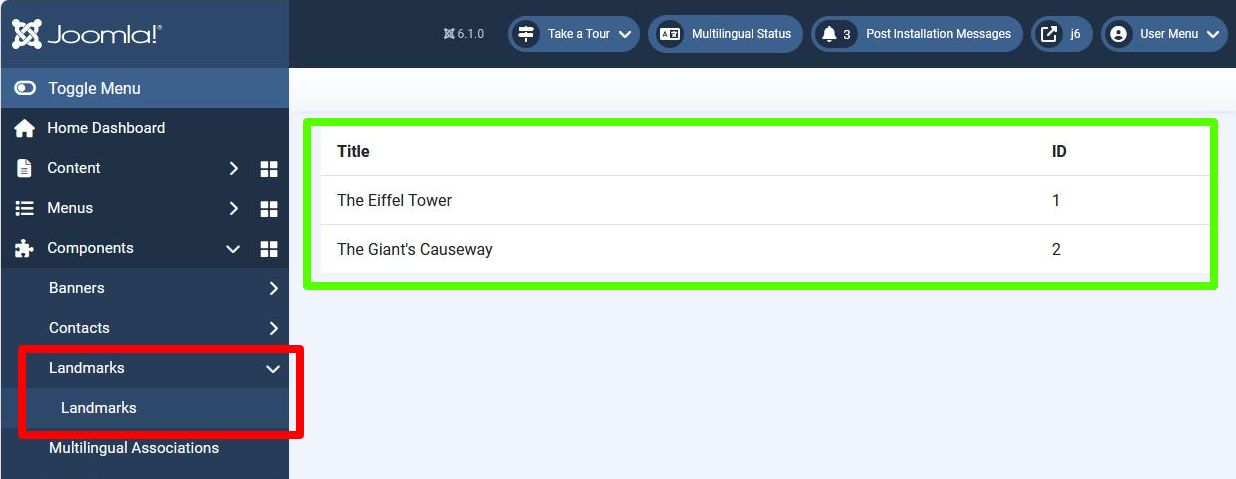
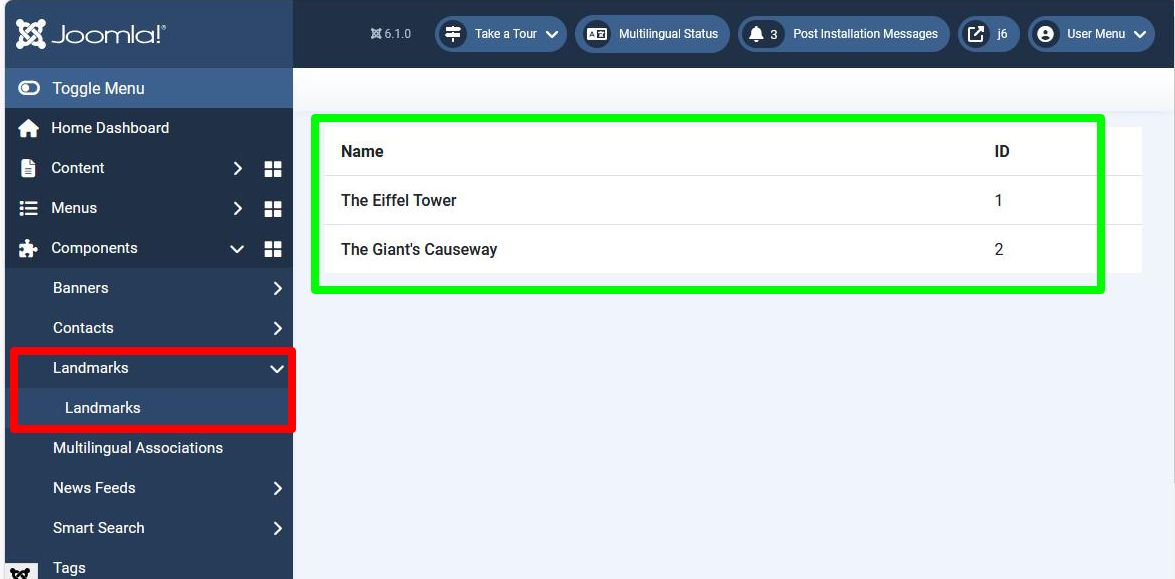
landmark title changed to landmark name in admin list view

Changed region(s): [[0.0, 0.0, 1.0, 1.0], [0.8272, 0.4092, 0.8579, 0.4384]]

diff --git a/docs/building-extensions/components/component-development-tutorial/step07-admin-edit.md b/docs/building-extensions/components/component-development-tutorial/step07-admin-edit.md
@@ -30,10 +30,10 @@ System Messages
 
 ## Functionality
 
-In the front-end instead of displaying just the landmark title, we'll now display the landmark title and description.
+In the front-end instead of displaying just the landmark name (aka landmark title), we'll now display the landmark name and description.
 
-In the back-end we'll change the list of landmarks so that the title is a link
-which will take the administrator to a form where the title and description can be viewed and changed.
+In the back-end we'll change the list of landmarks so that the name is a link
+which will take the administrator to a form where the name and description can be viewed and changed.
 
 ## Approach
 
@@ -49,7 +49,7 @@ to handle a structure (with the title and description) rather than passing the t
 
 ### Back-end
 
-In the landmarks tmpl file we change the landmark title to be a link which will take us to a form where the record can be edited.
+In the landmarks tmpl file we change the landmark name to be a link which will take us to a form where the record can be edited.
 
 We need to code the edit form, allowing the administrator to change the fields and submit the changes.
 
@@ -157,7 +157,7 @@ and we split the description of the source code changes to match the actions in 
 
 ### Action 1
 
-In the tmpl file displaying a list of landmarks, we change the Landmark Title field to be a link to a form where that record can be edited.
+In the tmpl file displaying a list of landmarks, we change the Landmark Name field to be a link to a form where that record can be edited.
 
 In the sequence diagram, when you click on an article 
 it generates an HTTP GET with task=article.edit and id=(id of the article to edit).
@@ -485,10 +485,10 @@ COM_EXAMPLE_LANDMARK_FIELD_SELECT_TITLE="Landmark"
 COM_EXAMPLE_LANDMARK_FIELD_SELECT_DESC="Select a landmark"
 ; Admin landmarks view
 COM_EXAMPLE_LANDMARKS_CAPTION="Table of Landmarks"
+COM_EXAMPLE_LANDMARK_TITLE_LABEL="Name"
 // highlight-start
 ; Admin landmark edit form
 COM_EXAMPLE_LANDMARK_EDIT="Landmarks: Edit"
-COM_EXAMPLE_LANDMARK_TITLE_LABEL="Name"
 COM_EXAMPLE_LANDMARK_TITLE_DESC="Name of the landmark"
 COM_EXAMPLE_LANDMARK_DESCRIPTION_LABEL="Description"
 COM_EXAMPLE_LANDMARK_DESCRIPTION_DESC="A summary description of the landmark"

diff --git a/versioned_docs/version-4.4/building-extensions/components/component-development-tutorial/step07-admin-edit.md b/versioned_docs/version-4.4/building-extensions/components/component-development-tutorial/step07-admin-edit.md
@@ -30,10 +30,10 @@ System Messages
 
 ## Functionality
 
-In the front-end instead of displaying just the landmark title, we'll now display the landmark title and description.
+In the front-end instead of displaying just the landmark name (aka landmark title), we'll now display the landmark name and description.
 
-In the back-end we'll change the list of landmarks so that the title is a link
-which will take the administrator to a form where the title and description can be viewed and changed.
+In the back-end we'll change the list of landmarks so that the name is a link
+which will take the administrator to a form where the name and description can be viewed and changed.
 
 ## Approach
 
@@ -49,7 +49,7 @@ to handle a structure (with the title and description) rather than passing the t
 
 ### Back-end
 
-In the landmarks tmpl file we change the landmark title to be a link which will take us to a form where the record can be edited.
+In the landmarks tmpl file we change the landmark name to be a link which will take us to a form where the record can be edited.
 
 We need to code the edit form, allowing the administrator to change the fields and submit the changes.
 
@@ -157,7 +157,7 @@ and we split the description of the source code changes to match the actions in 
 
 ### Action 1
 
-In the tmpl file displaying a list of landmarks, we change the Landmark Title field to be a link to a form where that record can be edited.
+In the tmpl file displaying a list of landmarks, we change the Landmark Name field to be a link to a form where that record can be edited.
 
 In the sequence diagram, when you click on an article 
 it generates an HTTP GET with task=article.edit and id=(id of the article to edit).
@@ -485,10 +485,10 @@ COM_EXAMPLE_LANDMARK_FIELD_SELECT_TITLE="Landmark"
 COM_EXAMPLE_LANDMARK_FIELD_SELECT_DESC="Select a landmark"
 ; Admin landmarks view
 COM_EXAMPLE_LANDMARKS_CAPTION="Table of Landmarks"
+COM_EXAMPLE_LANDMARK_TITLE_LABEL="Name"
 // highlight-start
 ; Admin landmark edit form
 COM_EXAMPLE_LANDMARK_EDIT="Landmarks: Edit"
-COM_EXAMPLE_LANDMARK_TITLE_LABEL="Name"
 COM_EXAMPLE_LANDMARK_TITLE_DESC="Name of the landmark"
 COM_EXAMPLE_LANDMARK_DESCRIPTION_LABEL="Description"
 COM_EXAMPLE_LANDMARK_DESCRIPTION_DESC="A summary description of the landmark"

diff --git a/versioned_docs/version-5.4/building-extensions/components/component-development-tutorial/step07-admin-edit.md b/versioned_docs/version-5.4/building-extensions/components/component-development-tutorial/step07-admin-edit.md
@@ -30,10 +30,10 @@ System Messages
 
 ## Functionality
 
-In the front-end instead of displaying just the landmark title, we'll now display the landmark title and description.
+In the front-end instead of displaying just the landmark name (aka landmark title), we'll now display the landmark name and description.
 
-In the back-end we'll change the list of landmarks so that the title is a link
-which will take the administrator to a form where the title and description can be viewed and changed.
+In the back-end we'll change the list of landmarks so that the name is a link
+which will take the administrator to a form where the name and description can be viewed and changed.
 
 ## Approach
 
@@ -49,7 +49,7 @@ to handle a structure (with the title and description) rather than passing the t
 
 ### Back-end
 
-In the landmarks tmpl file we change the landmark title to be a link which will take us to a form where the record can be edited.
+In the landmarks tmpl file we change the landmark name to be a link which will take us to a form where the record can be edited.
 
 We need to code the edit form, allowing the administrator to change the fields and submit the changes.
 
@@ -157,7 +157,7 @@ and we split the description of the source code changes to match the actions in 
 
 ### Action 1
 
-In the tmpl file displaying a list of landmarks, we change the Landmark Title field to be a link to a form where that record can be edited.
+In the tmpl file displaying a list of landmarks, we change the Landmark Name field to be a link to a form where that record can be edited.
 
 In the sequence diagram, when you click on an article 
 it generates an HTTP GET with task=article.edit and id=(id of the article to edit).
@@ -485,10 +485,10 @@ COM_EXAMPLE_LANDMARK_FIELD_SELECT_TITLE="Landmark"
 COM_EXAMPLE_LANDMARK_FIELD_SELECT_DESC="Select a landmark"
 ; Admin landmarks view
 COM_EXAMPLE_LANDMARKS_CAPTION="Table of Landmarks"
+COM_EXAMPLE_LANDMARK_TITLE_LABEL="Name"
 // highlight-start
 ; Admin landmark edit form
 COM_EXAMPLE_LANDMARK_EDIT="Landmarks: Edit"
-COM_EXAMPLE_LANDMARK_TITLE_LABEL="Name"
 COM_EXAMPLE_LANDMARK_TITLE_DESC="Name of the landmark"
 COM_EXAMPLE_LANDMARK_DESCRIPTION_LABEL="Description"
 COM_EXAMPLE_LANDMARK_DESCRIPTION_DESC="A summary description of the landmark"

diff --git a/versioned_docs/version-6.1/building-extensions/components/component-development-tutorial/step07-admin-edit.md b/versioned_docs/version-6.1/building-extensions/components/component-development-tutorial/step07-admin-edit.md
@@ -30,10 +30,10 @@ System Messages
 
 ## Functionality
 
-In the front-end instead of displaying just the landmark title, we'll now display the landmark title and description.
+In the front-end instead of displaying just the landmark name (aka landmark title), we'll now display the landmark name and description.
 
-In the back-end we'll change the list of landmarks so that the title is a link
-which will take the administrator to a form where the title and description can be viewed and changed.
+In the back-end we'll change the list of landmarks so that the name is a link
+which will take the administrator to a form where the name and description can be viewed and changed.
 
 ## Approach
 
@@ -49,7 +49,7 @@ to handle a structure (with the title and description) rather than passing the t
 
 ### Back-end
 
-In the landmarks tmpl file we change the landmark title to be a link which will take us to a form where the record can be edited.
+In the landmarks tmpl file we change the landmark name to be a link which will take us to a form where the record can be edited.
 
 We need to code the edit form, allowing the administrator to change the fields and submit the changes.
 
@@ -157,7 +157,7 @@ and we split the description of the source code changes to match the actions in 
 
 ### Action 1
 
-In the tmpl file displaying a list of landmarks, we change the Landmark Title field to be a link to a form where that record can be edited.
+In the tmpl file displaying a list of landmarks, we change the Landmark Name field to be a link to a form where that record can be edited.
 
 In the sequence diagram, when you click on an article 
 it generates an HTTP GET with task=article.edit and id=(id of the article to edit).
@@ -485,10 +485,10 @@ COM_EXAMPLE_LANDMARK_FIELD_SELECT_TITLE="Landmark"
 COM_EXAMPLE_LANDMARK_FIELD_SELECT_DESC="Select a landmark"
 ; Admin landmarks view
 COM_EXAMPLE_LANDMARKS_CAPTION="Table of Landmarks"
+COM_EXAMPLE_LANDMARK_TITLE_LABEL="Name"
 // highlight-start
 ; Admin landmark edit form
 COM_EXAMPLE_LANDMARK_EDIT="Landmarks: Edit"
-COM_EXAMPLE_LANDMARK_TITLE_LABEL="Name"
 COM_EXAMPLE_LANDMARK_TITLE_DESC="Name of the landmark"
 COM_EXAMPLE_LANDMARK_DESCRIPTION_LABEL="Description"
 COM_EXAMPLE_LANDMARK_DESCRIPTION_DESC="A summary description of the landmark"

diff --git a/docs/building-extensions/components/component-development-tutorial/step06-admin-list.md b/docs/building-extensions/components/component-development-tutorial/step06-admin-list.md
@@ -205,7 +205,7 @@ use Joomla\CMS\Language\Text;
     <thead>
         <tr>
             <th scope="col">
-                <?php echo Text::_('JGLOBAL_TITLE'); ?>
+                <?php echo Text::_('COM_EXAMPLE_LANDMARK_TITLE_LABEL'); ?>
             </th>
             <th scope="col">
                 <?php echo Text::_('JGRID_HEADING_ID'); ?>
@@ -232,7 +232,8 @@ in the [Joomla Magazine Accessible Tables article](https://magazine.joomla.org/i
 
 1. The `<caption>` class="visually-hidden" means that it will not appear in the webpage display,
 but can be used by screen readers for people with reduced visibility.
-The text is a language constant which must be included in the administrator language .ini file:
+The text is a language constant which must be included in the administrator language .ini file
+(together with the language constant for the column header for the landmark name column):
 
 ```php title="administrator/components/com_example/language/en-GB/com_example.ini"
 COM_EXAMPLE_LANDMARK_FIELD_SELECT_TITLE="Landmark"
@@ -240,14 +241,15 @@ COM_EXAMPLE_LANDMARK_FIELD_SELECT_DESC="Select a landmark"
 // highlight-start
 ; Admin landmarks view
 COM_EXAMPLE_LANDMARKS_CAPTION="Table of Landmarks"
+COM_EXAMPLE_LANDMARK_TITLE_LABEL="Name"
 // highlight-end
 ```
 
 2. The table has column headers describing the fields, 
-and row headers which are the landmark titles (which will become more apparent as we add to the number of fields).
+and row headers which are the landmark names (which will become more apparent as we add to the number of fields).
 So these are identified with `<th>` tags, and include the scope="col" or scope="row" attribute as appropriate.
 
-We also reuse 2 language constants from the administrator joomla.ini file for the table column headers. 
+We also reuse the JGRID_HEADING_ID constant from the administrator joomla.ini file for the table column headers. 
 This ini file always gets loaded by Joomla. 
 
 Because this tmpl file is in a new folder we need to include this folder in the manifest XML file:

diff --git a/versioned_docs/version-4.4/building-extensions/components/component-development-tutorial/step06-admin-list.md b/versioned_docs/version-4.4/building-extensions/components/component-development-tutorial/step06-admin-list.md
@@ -205,7 +205,7 @@ use Joomla\CMS\Language\Text;
     <thead>
         <tr>
             <th scope="col">
-                <?php echo Text::_('JGLOBAL_TITLE'); ?>
+                <?php echo Text::_('COM_EXAMPLE_LANDMARK_TITLE_LABEL'); ?>
             </th>
             <th scope="col">
                 <?php echo Text::_('JGRID_HEADING_ID'); ?>
@@ -232,7 +232,8 @@ in the [Joomla Magazine Accessible Tables article](https://magazine.joomla.org/i
 
 1. The `<caption>` class="visually-hidden" means that it will not appear in the webpage display,
 but can be used by screen readers for people with reduced visibility.
-The text is a language constant which must be included in the administrator language .ini file:
+The text is a language constant which must be included in the administrator language .ini file
+(together with the language constant for the column header for the landmark name column):
 
 ```php title="administrator/components/com_example/language/en-GB/com_example.ini"
 COM_EXAMPLE_LANDMARK_FIELD_SELECT_TITLE="Landmark"
@@ -240,14 +241,15 @@ COM_EXAMPLE_LANDMARK_FIELD_SELECT_DESC="Select a landmark"
 // highlight-start
 ; Admin landmarks view
 COM_EXAMPLE_LANDMARKS_CAPTION="Table of Landmarks"
+COM_EXAMPLE_LANDMARK_TITLE_LABEL="Name"
 // highlight-end
 ```
 
 2. The table has column headers describing the fields, 
-and row headers which are the landmark titles (which will become more apparent as we add to the number of fields).
+and row headers which are the landmark names (which will become more apparent as we add to the number of fields).
 So these are identified with `<th>` tags, and include the scope="col" or scope="row" attribute as appropriate.
 
-We also reuse 2 language constants from the administrator joomla.ini file for the table column headers. 
+We also reuse the JGRID_HEADING_ID constant from the administrator joomla.ini file for the table column headers. 
 This ini file always gets loaded by Joomla. 
 
 Because this tmpl file is in a new folder we need to include this folder in the manifest XML file:

diff --git a/versioned_docs/version-5.4/building-extensions/components/component-development-tutorial/step06-admin-list.md b/versioned_docs/version-5.4/building-extensions/components/component-development-tutorial/step06-admin-list.md
@@ -205,7 +205,7 @@ use Joomla\CMS\Language\Text;
     <thead>
         <tr>
             <th scope="col">
-                <?php echo Text::_('JGLOBAL_TITLE'); ?>
+                <?php echo Text::_('COM_EXAMPLE_LANDMARK_TITLE_LABEL'); ?>
             </th>
             <th scope="col">
                 <?php echo Text::_('JGRID_HEADING_ID'); ?>
@@ -232,7 +232,8 @@ in the [Joomla Magazine Accessible Tables article](https://magazine.joomla.org/i
 
 1. The `<caption>` class="visually-hidden" means that it will not appear in the webpage display,
 but can be used by screen readers for people with reduced visibility.
-The text is a language constant which must be included in the administrator language .ini file:
+The text is a language constant which must be included in the administrator language .ini file
+(together with the language constant for the column header for the landmark name column):
 
 ```php title="administrator/components/com_example/language/en-GB/com_example.ini"
 COM_EXAMPLE_LANDMARK_FIELD_SELECT_TITLE="Landmark"
@@ -240,14 +241,15 @@ COM_EXAMPLE_LANDMARK_FIELD_SELECT_DESC="Select a landmark"
 // highlight-start
 ; Admin landmarks view
 COM_EXAMPLE_LANDMARKS_CAPTION="Table of Landmarks"
+COM_EXAMPLE_LANDMARK_TITLE_LABEL="Name"
 // highlight-end
 ```
 
 2. The table has column headers describing the fields, 
-and row headers which are the landmark titles (which will become more apparent as we add to the number of fields).
+and row headers which are the landmark names (which will become more apparent as we add to the number of fields).
 So these are identified with `<th>` tags, and include the scope="col" or scope="row" attribute as appropriate.
 
-We also reuse 2 language constants from the administrator joomla.ini file for the table column headers. 
+We also reuse the JGRID_HEADING_ID constant from the administrator joomla.ini file for the table column headers. 
 This ini file always gets loaded by Joomla. 
 
 Because this tmpl file is in a new folder we need to include this folder in the manifest XML file:

diff --git a/versioned_docs/version-6.1/building-extensions/components/component-development-tutorial/step06-admin-list.md b/versioned_docs/version-6.1/building-extensions/components/component-development-tutorial/step06-admin-list.md
@@ -205,7 +205,7 @@ use Joomla\CMS\Language\Text;
     <thead>
         <tr>
             <th scope="col">
-                <?php echo Text::_('JGLOBAL_TITLE'); ?>
+                <?php echo Text::_('COM_EXAMPLE_LANDMARK_TITLE_LABEL'); ?>
             </th>
             <th scope="col">
                 <?php echo Text::_('JGRID_HEADING_ID'); ?>
@@ -232,7 +232,8 @@ in the [Joomla Magazine Accessible Tables article](https://magazine.joomla.org/i
 
 1. The `<caption>` class="visually-hidden" means that it will not appear in the webpage display,
 but can be used by screen readers for people with reduced visibility.
-The text is a language constant which must be included in the administrator language .ini file:
+The text is a language constant which must be included in the administrator language .ini file
+(together with the language constant for the column header for the landmark name column):
 
 ```php title="administrator/components/com_example/language/en-GB/com_example.ini"
 COM_EXAMPLE_LANDMARK_FIELD_SELECT_TITLE="Landmark"
@@ -240,14 +241,15 @@ COM_EXAMPLE_LANDMARK_FIELD_SELECT_DESC="Select a landmark"
 // highlight-start
 ; Admin landmarks view
 COM_EXAMPLE_LANDMARKS_CAPTION="Table of Landmarks"
+COM_EXAMPLE_LANDMARK_TITLE_LABEL="Name"
 // highlight-end
 ```
 
 2. The table has column headers describing the fields, 
-and row headers which are the landmark titles (which will become more apparent as we add to the number of fields).
+and row headers which are the landmark names (which will become more apparent as we add to the number of fields).
 So these are identified with `<th>` tags, and include the scope="col" or scope="row" attribute as appropriate.
 
-We also reuse 2 language constants from the administrator joomla.ini file for the table column headers. 
+We also reuse the JGRID_HEADING_ID constant from the administrator joomla.ini file for the table column headers. 
 This ini file always gets loaded by Joomla. 
 
 Because this tmpl file is in a new folder we need to include this folder in the manifest XML file:
